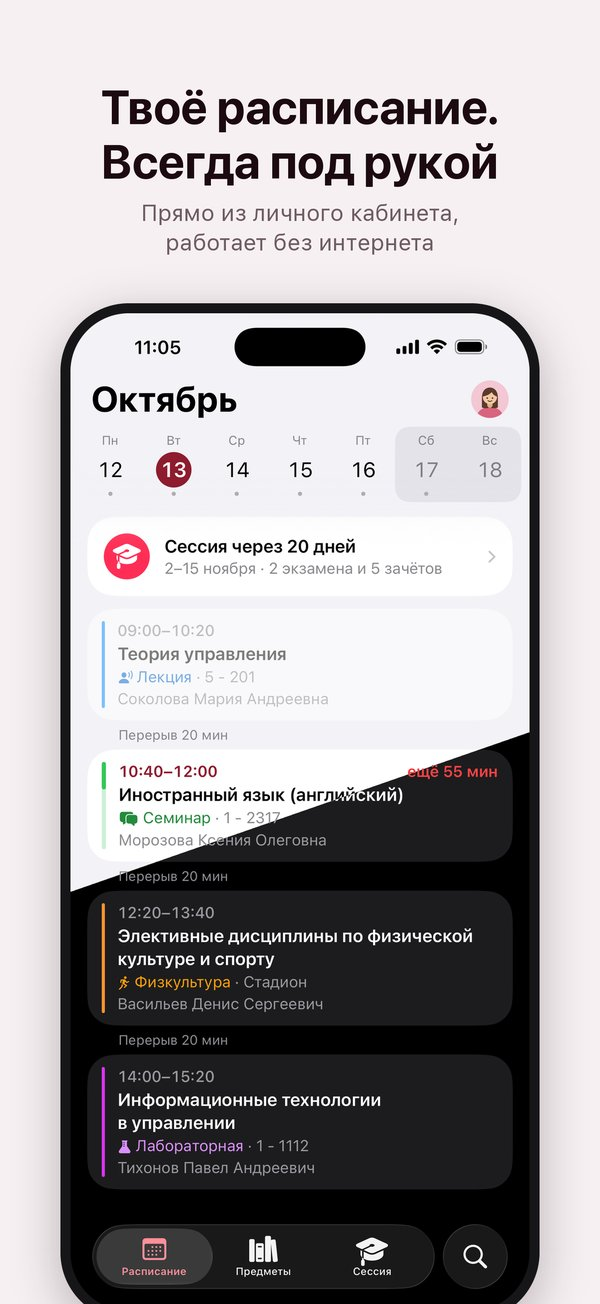
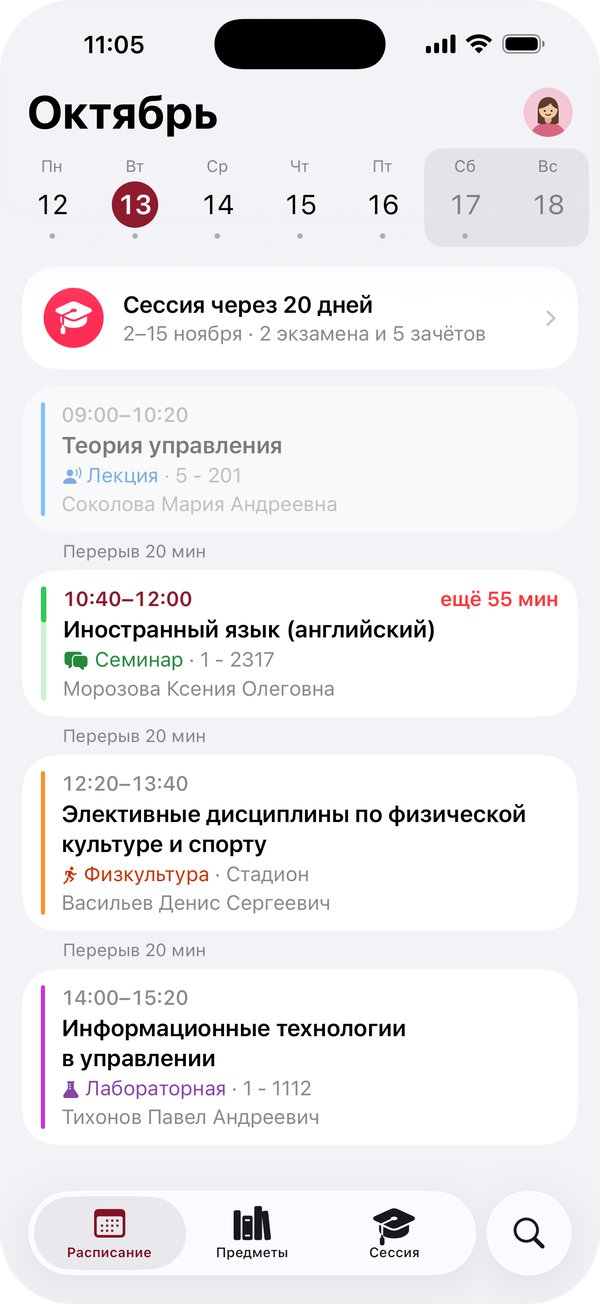
README: скриншоты без надписей

diff --git a/README.md b/README.md
@@ -8,7 +8,7 @@
 
 <p align="center">
   <img src="docs/images/schedule.jpg" width="24%" alt="Расписание">
-  <img src="docs/images/widgets.jpg" width="24%" alt="Виджеты">
+  <img src="docs/images/lesson.jpg" width="24%" alt="Карточка пары">
   <img src="docs/images/session.jpg" width="24%" alt="Сессия">
   <img src="docs/images/subject.jpg" width="24%" alt="Экран предмета">
 </p>
